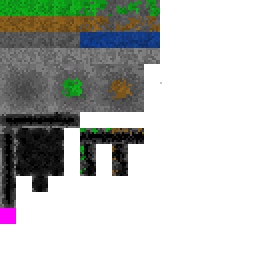
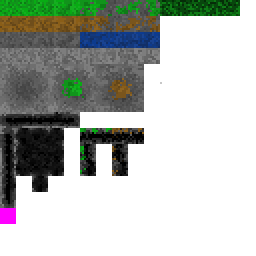
added bushes/trees

Changed region(s): [[0.625, 0.0, 0.9375, 0.0625]]

diff --git a/src/SceneManager.cpp b/src/SceneManager.cpp
@@ -51,12 +51,20 @@ SceneManager::SceneManager(){
 	tmpVector->push_back(sf::Vector2i(8,2));
 	tmpVector->push_back(sf::Vector2i(9,2));
 	colorToTilePositionMap[0x0000abff] = tmpVector; // water
+	tmpVector = new std::vector<sf::Vector2i>();
+	tmpVector->push_back(sf::Vector2i(10,0));
+	tmpVector->push_back(sf::Vector2i(11,0));
+	tmpVector->push_back(sf::Vector2i(12,0));
+	tmpVector->push_back(sf::Vector2i(13,0));
+	tmpVector->push_back(sf::Vector2i(14,0));
+	colorToTilePositionMap[0x003E04ff] = tmpVector; // trees
 
 	walkableTileState[0x000100ff] = false;
 	walkableTileState[0x5f5f5fff] = true;
 	walkableTileState[0x9b6d27ff] = true;
 	walkableTileState[0x969896ff] = true;
 	walkableTileState[0x11941bff] = true;
+	walkableTileState[0x003E04ff] = false;
 	
 	currentLevelNumber = -1;
 	restards = 0;

diff --git a/src/Scene.cpp b/src/Scene.cpp
@@ -185,10 +185,10 @@ void Scene::update(sf::Time deltaT)
 	{
 		gui->update(deltaT);
 	}
-	
+
 	sf::Font font;
 	font.loadFromFile(std::string(PATH) + "fonts/LiberationSerif-Regular.ttf");
-	
+
 	sf::Text level;
 	level.setFont(font);
 	level.setPosition(global::gridWidth + 2, global::gridHeight - 32);
@@ -207,12 +207,12 @@ void Scene::update(sf::Time deltaT)
 				if ((*itIt)->collectable)
 				{
 					itIt = items.erase(itIt);
-				}		
+				}
 				else
 				{
 					itIt ++;
 				}
-			} 
+			}
 			else
 			{
 				itIt ++;
@@ -242,7 +242,7 @@ bool Scene::readyToLeave() const
 	return (keysInLevel == 0);
 }
 
- 
+
 void Scene::leave()
 {
 	if (!readyToLeave()) return;
